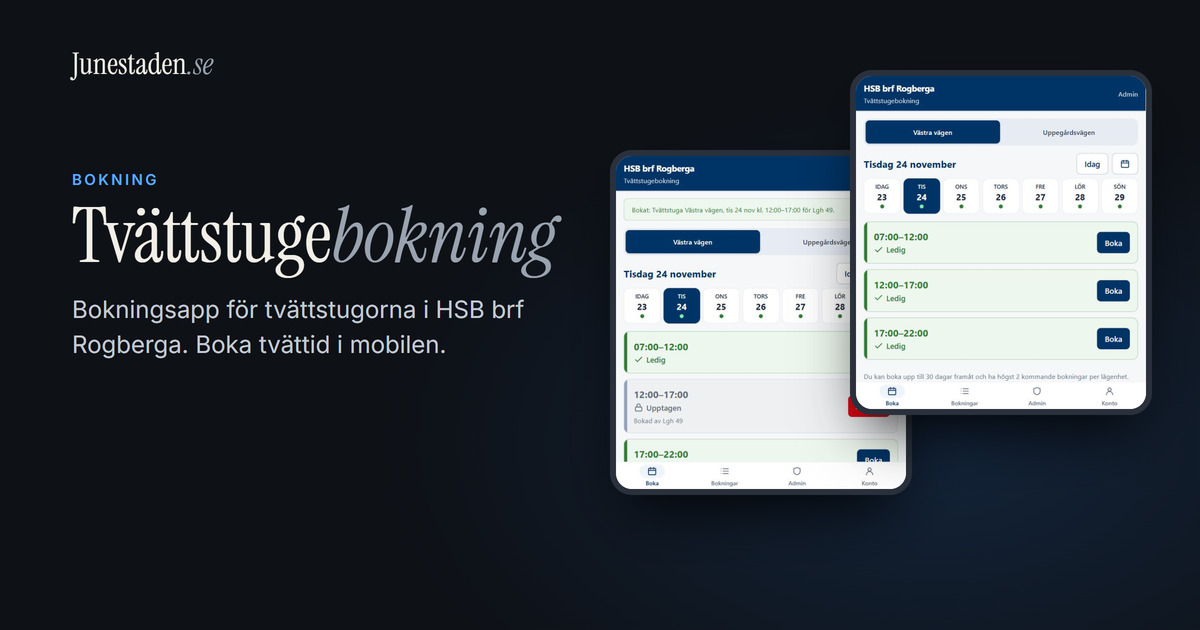
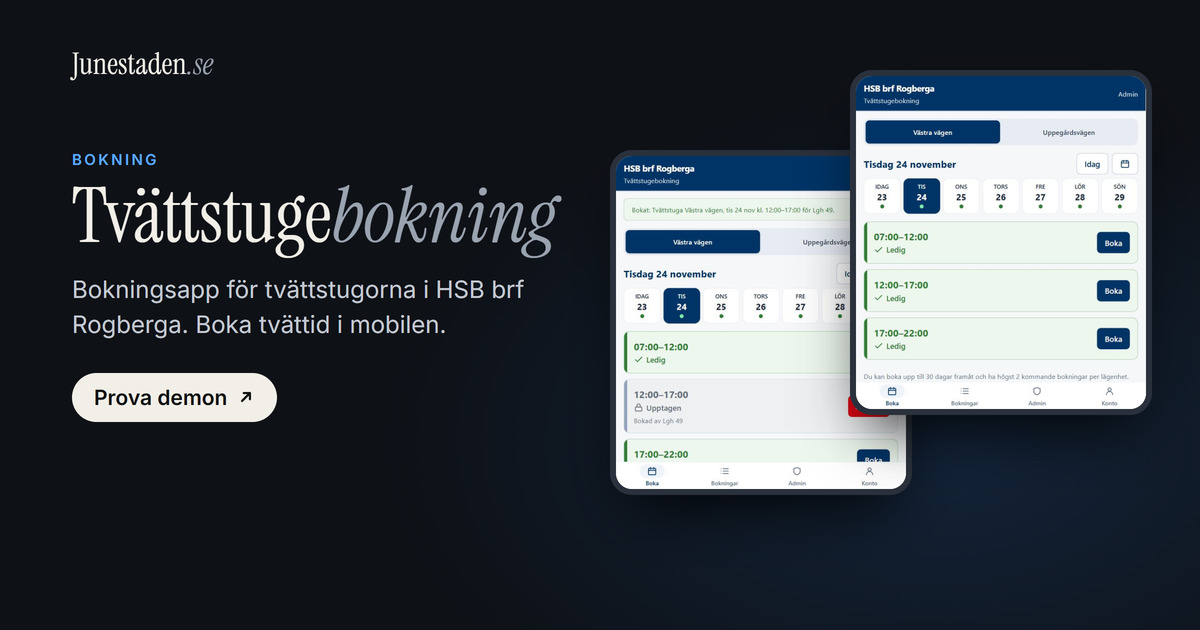
Tvättstugebokning: pil som reser sig på demoknappen, delningsbild med Prova demon

Changed region(s): [[0.0617, 0.2413, 0.4625, 0.6937]]

diff --git a/public/tvattstuga.html b/public/tvattstuga.html
@@ -21,7 +21,7 @@
 <meta property="og:url" content="https://junestaden.se/tvattstuga">
 <meta property="og:title" content="Tvättstugebokning för HSB brf Rogberga">
 <meta property="og:description" content="Bokningsapp för föreningens två tvättstugor: bokning i mobilen för de boende och en egen vy för styrelsen.">
-<meta property="og:image" content="https://junestaden.se/img/og-tvatt.jpg?v=2">
+<meta property="og:image" content="https://junestaden.se/img/og-tvatt.jpg?v=3">
 <meta property="og:image:width" content="1200">
 <meta property="og:image:height" content="630">
 <meta name="twitter:card" content="summary_large_image">
@@ -450,6 +450,9 @@ footer a { color: inherit; }
 .tech strong { color: var(--fg); font-weight: 500; }
 .demo-cta { display: flex; flex-wrap: wrap; align-items: center; gap: 12px 18px; margin-top: 24px; }
 .demo-cta span { font-size: 14px; color: var(--muted); }
+.btn .arr { width: 15px; height: 15px; position: relative; top: 0; left: 0; transition: top .25s cubic-bezier(.2,.7,.2,1), left .25s cubic-bezier(.2,.7,.2,1); }
+.btn:hover .arr, .btn:focus-visible .arr { top: -2px; left: 2px; }
+@media (prefers-reduced-motion: reduce) { .btn .arr { transition: none; } }
 .btn-ghost { background: transparent; color: var(--fg); border-color: var(--line); }
 .btn-ghost:hover, .btn-ghost:focus-visible { border-color: var(--muted); }
 .content p.demo-note { margin-top: 18px; font-size: 14px; color: var(--muted); max-width: 620px; }
@@ -481,7 +484,7 @@ footer a { color: inherit; }
     <h1>Tvättstuge<em>bokning</em></h1>
     <div class="lead"><p>En bokningsapp för tvättstugorna i HSB brf Rogberga i Tenhult. De boende bokar tvättid i mobilen, och styrelsen sköter konton, avbokningar och avstängningar för service på samma ställe.</p></div>
     <div class="demo-cta">
-      <a class="btn btn-mail" href="https://bokning-demo.rogberga-hsb.workers.dev" target="_blank" rel="noopener">Prova demon <svg viewBox="0 0 16 16" fill="none" stroke="currentColor" stroke-width="1.7" stroke-linecap="round" stroke-linejoin="round" aria-hidden="true"><path d="M3 8h10M9 4l4 4-4 4"/></svg></a>
+      <a class="btn btn-mail" href="https://bokning-demo.rogberga-hsb.workers.dev" target="_blank" rel="noopener">Prova demon <svg class="arr" viewBox="0 0 16 16" fill="none" stroke="currentColor" stroke-width="1.8" stroke-linecap="round" stroke-linejoin="round" aria-hidden="true"><path d="M4.5 11.5l7-7M6 4.5h5.5V10"/></svg></a>
       <span>Påhittade uppgifter, inget konto behövs.</span>
     </div>
   </section>
@@ -523,7 +526,7 @@ footer a { color: inherit; }
       <h2>Vill din förening ha något liknande?</h2>
       <p>Prova demon och boka en tvättid själv, som boende eller som styrelse. Hör gärna av dig om du vill veta mer om hur det fungerar.</p>
       <div class="buttons">
-        <a class="btn btn-mail" href="https://bokning-demo.rogberga-hsb.workers.dev" target="_blank" rel="noopener">Prova demon <svg viewBox="0 0 16 16" fill="none" stroke="currentColor" stroke-width="1.7" stroke-linecap="round" stroke-linejoin="round" aria-hidden="true"><path d="M3 8h10M9 4l4 4-4 4"/></svg></a>
+        <a class="btn btn-mail" href="https://bokning-demo.rogberga-hsb.workers.dev" target="_blank" rel="noopener">Prova demon <svg class="arr" viewBox="0 0 16 16" fill="none" stroke="currentColor" stroke-width="1.8" stroke-linecap="round" stroke-linejoin="round" aria-hidden="true"><path d="M4.5 11.5l7-7M6 4.5h5.5V10"/></svg></a>
         <a class="btn btn-ghost js-mail" href="/om#kontakt" data-u="bjorn.jkpg" data-d="gmail.com">Mejla mig</a>
         <a class="btn btn-in" href="https://www.linkedin.com/in/bj%C3%B6rn-norberg-088992345" rel="me noopener" target="_blank">LinkedIn</a>
       </div>

diff --git a/design/og-tvatt.html b/design/og-tvatt.html
@@ -9,11 +9,14 @@ body { margin: 0; width: 1200px; height: 630px; overflow: hidden; position: rela
   background: radial-gradient(900px 560px at 78% 70%, #13243a 0%, #0e1116 62%); color: #f2efe8; font-family: Inter, sans-serif; }
 .brand { position: absolute; left: 72px; top: 44px; font: 30px "Instrument Serif", serif; letter-spacing: .2px; }
 .brand em { color: #9aa3b0; }
-.text { position: absolute; left: 72px; top: 170px; width: 470px; }
+.text { position: absolute; left: 72px; top: 150px; width: 470px; }
 .tag { font: 600 15px Inter, sans-serif; letter-spacing: .16em; text-transform: uppercase; color: #5aa9ff; }
 h1 { margin: 10px 0 18px; font: 400 76px/1 "Instrument Serif", serif; letter-spacing: -.5px; }
 h1 em { color: #9aa3b0; }
 p { margin: 0; font: 400 24px/1.45 Inter, sans-serif; color: #c4cad3; }
+.demo { display: inline-flex; align-items: center; gap: 10px; margin-top: 30px; padding: 12px 22px; border-radius: 999px;
+  background: #f2efe8; color: #111; font: 600 21px Inter, sans-serif; }
+.demo svg { width: 18px; height: 18px; }
 .screens { position: absolute; left: 600px; top: 0; width: 600px; height: 630px; }
 .s { position: absolute; width: 290px; border: 6px solid #2a313c; border-radius: 22px; overflow: hidden; background: #f6f7f9;
   box-shadow: 0 30px 60px -18px rgba(0,0,0,.85); }
@@ -26,6 +29,7 @@ p { margin: 0; font: 400 24px/1.45 Inter, sans-serif; color: #c4cad3; }
   <div class="tag">Bokning</div>
   <h1>Tvättstuge<em>bokning</em></h1>
   <p>Bokningsapp för tvättstugorna i HSB brf Rogberga. Boka tvättid i mobilen.</p>
+  <div class="demo">Prova demon <svg viewBox="0 0 16 16" fill="none" stroke="currentColor" stroke-width="1.9" stroke-linecap="round" stroke-linejoin="round"><path d="M4.5 11.5l7-7M6 4.5h5.5V10"/></svg></div>
 </div>
 <div class="screens">
   <div class="s s1"><img src="tvatt/bokad.png" alt=""></div>
